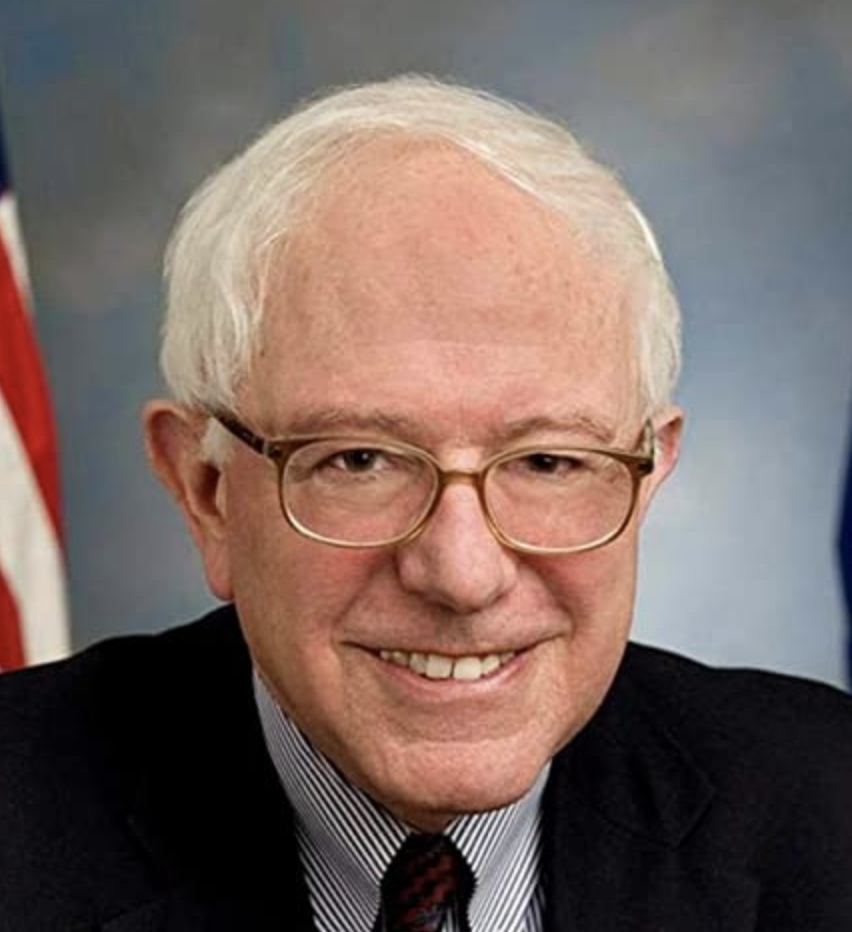
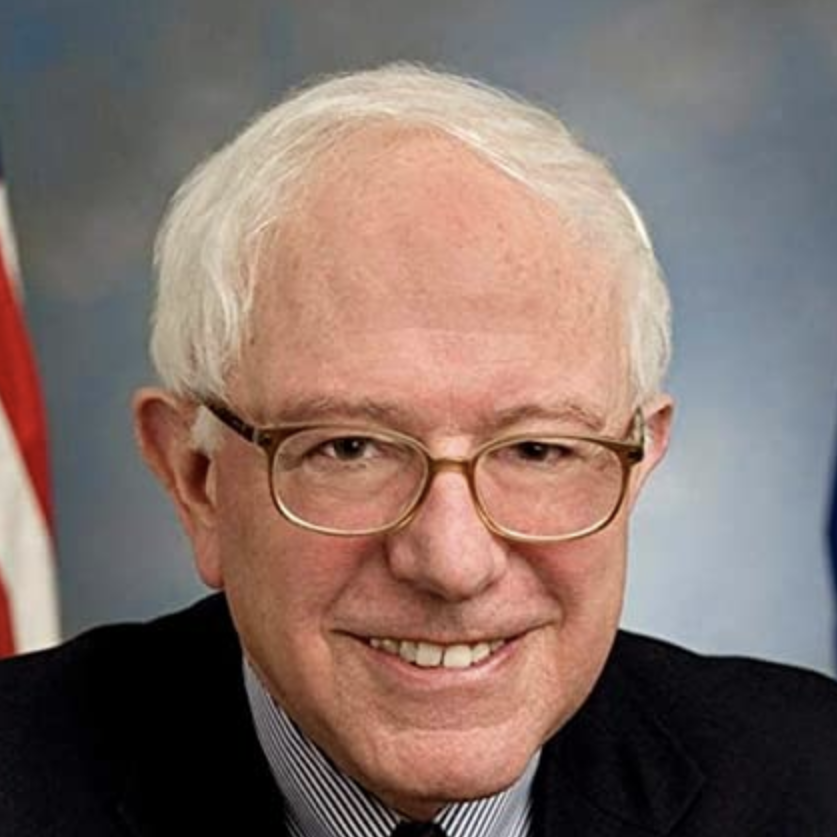
Updated tooltips and updated some non-square photos

diff --git a/static/js/nodelink.js b/static/js/nodelink.js
@@ -23,7 +23,18 @@ NodeLink.prototype.initVis = function() {
     vis.tip = d3.tip()
         .attr("class", "d3-tip")
         .html(function(d) {
-            return d.display_name;
+            let outputString = '<div>';
+            outputString += `<span>${d.display_name}</span><br><br>`;
+            outputString += `<span>Total Donors: ${d3.format(",")(d.total_donors)}</span><br>`;
+
+            const correspondingLink = vis.selectedOverlapLinks.find((x) => x.target === d.id);
+            if (typeof correspondingLink !== "undefined") {
+                outputString += `<span>Overlap: ${d3.format(".1f")(correspondingLink.pct_val)}% (${d3.format(",")(correspondingLink.raw_val)})</span><br>`;
+            }
+
+            outputString += '</div>';
+
+            return outputString
         });
     vis.svg.call(vis.tip);
 
@@ -167,33 +178,9 @@ NodeLink.prototype.wrangleData = function() {
 
     // Determine node layout (using multiple rings, if necessary)
     const linkDistance = 450;
-    const ringCircumference = linkDistance*2*Math.PI;
-    const nodeSpace = ringCircumference / vis.numOuterNodes;
 
-    // console.log(nodeSpace, 2*(vis.minCircleRadius+8));
-    if ( nodeSpace > 2*(vis.minCircleRadius + 8) ) {
-        vis.circumferenceCoordinateSet = circlePlotCoordinates(linkDistance, [vis.width / 2, vis.height / 2], vis.numOuterNodes);
-    }
-    else {
-        const numRings = Math.ceil(nodeSpace / (vis.minCircleRadius));
-        const baseRadius = linkDistance - 50;
-
-        vis.circumferenceCoordinateSet = [];
-        for(let i=0; i<numRings; i++) {
-            let chunkSize = vis.numOuterNodes / numRings;
-            if (i === numRings-1) {
-                chunkSize = Math.ceil(chunkSize);
-            }
-            else {
-                chunkSize = Math.floor(chunkSize);
-            }
-
-            vis. circumferenceCoordinateSet = vis.circumferenceCoordinateSet.concat( circlePlotCoordinates((baseRadius + i*100), [vis.width / 2, vis.height / 2], chunkSize) );
-        }
-
-    }
-
-    console.log(vis.circumferenceCoordinateSet);
+    vis.getCircleCoordinates(linkDistance);
+    // console.log(vis.circumferenceCoordinateSet);
 
     let coordinateIndex = 0;
     vis.overlapNodes.forEach(d => {
@@ -445,3 +432,34 @@ function linkArc(d) {
     A${r},${r} 0 0,1 ${d.x2},${d.y2}
   `;
 }
+
+
+NodeLink.prototype.getCircleCoordinates = function(linkDistance) {
+    const vis = this;
+
+    const ringCircumference = linkDistance*2*Math.PI;
+    const nodeSpace = ringCircumference / vis.numOuterNodes;
+
+    // console.log(nodeSpace, 2*(vis.minCircleRadius+8));
+    if ( nodeSpace > 2*(vis.minCircleRadius + 8) ) {
+        vis.circumferenceCoordinateSet = circlePlotCoordinates(linkDistance, [vis.width / 2, vis.height / 2], vis.numOuterNodes);
+    }
+    else {
+        const numRings = Math.ceil(nodeSpace / (vis.minCircleRadius));
+        const baseRadius = linkDistance - 50;
+
+        vis.circumferenceCoordinateSet = [];
+        for(let i=0; i<numRings; i++) {
+            let chunkSize = vis.numOuterNodes / numRings;
+            if (i === numRings-1) {
+                chunkSize = Math.ceil(chunkSize);
+            }
+            else {
+                chunkSize = Math.floor(chunkSize);
+            }
+
+            vis.circumferenceCoordinateSet = vis.circumferenceCoordinateSet.concat( circlePlotCoordinates((baseRadius + i*100), [vis.width / 2, vis.height / 2], chunkSize) );
+        }
+
+    }
+};
